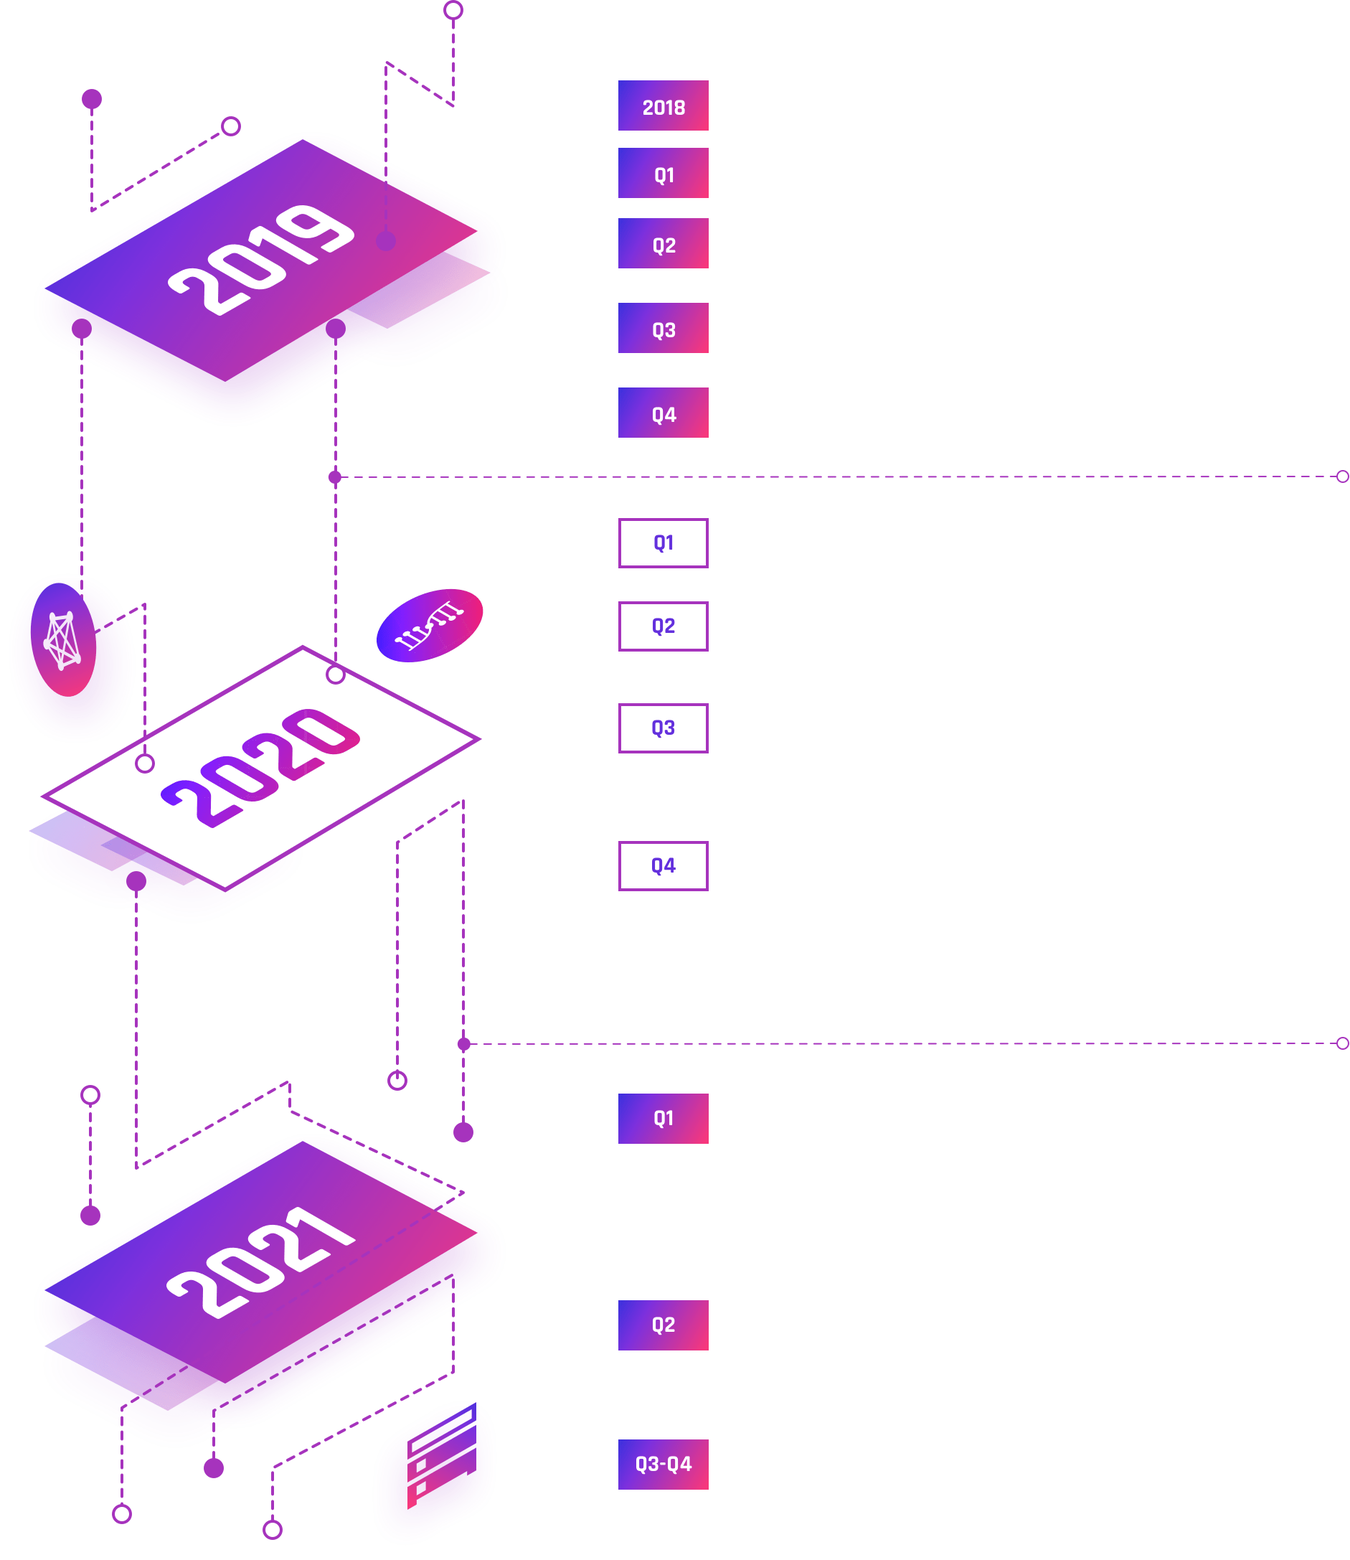
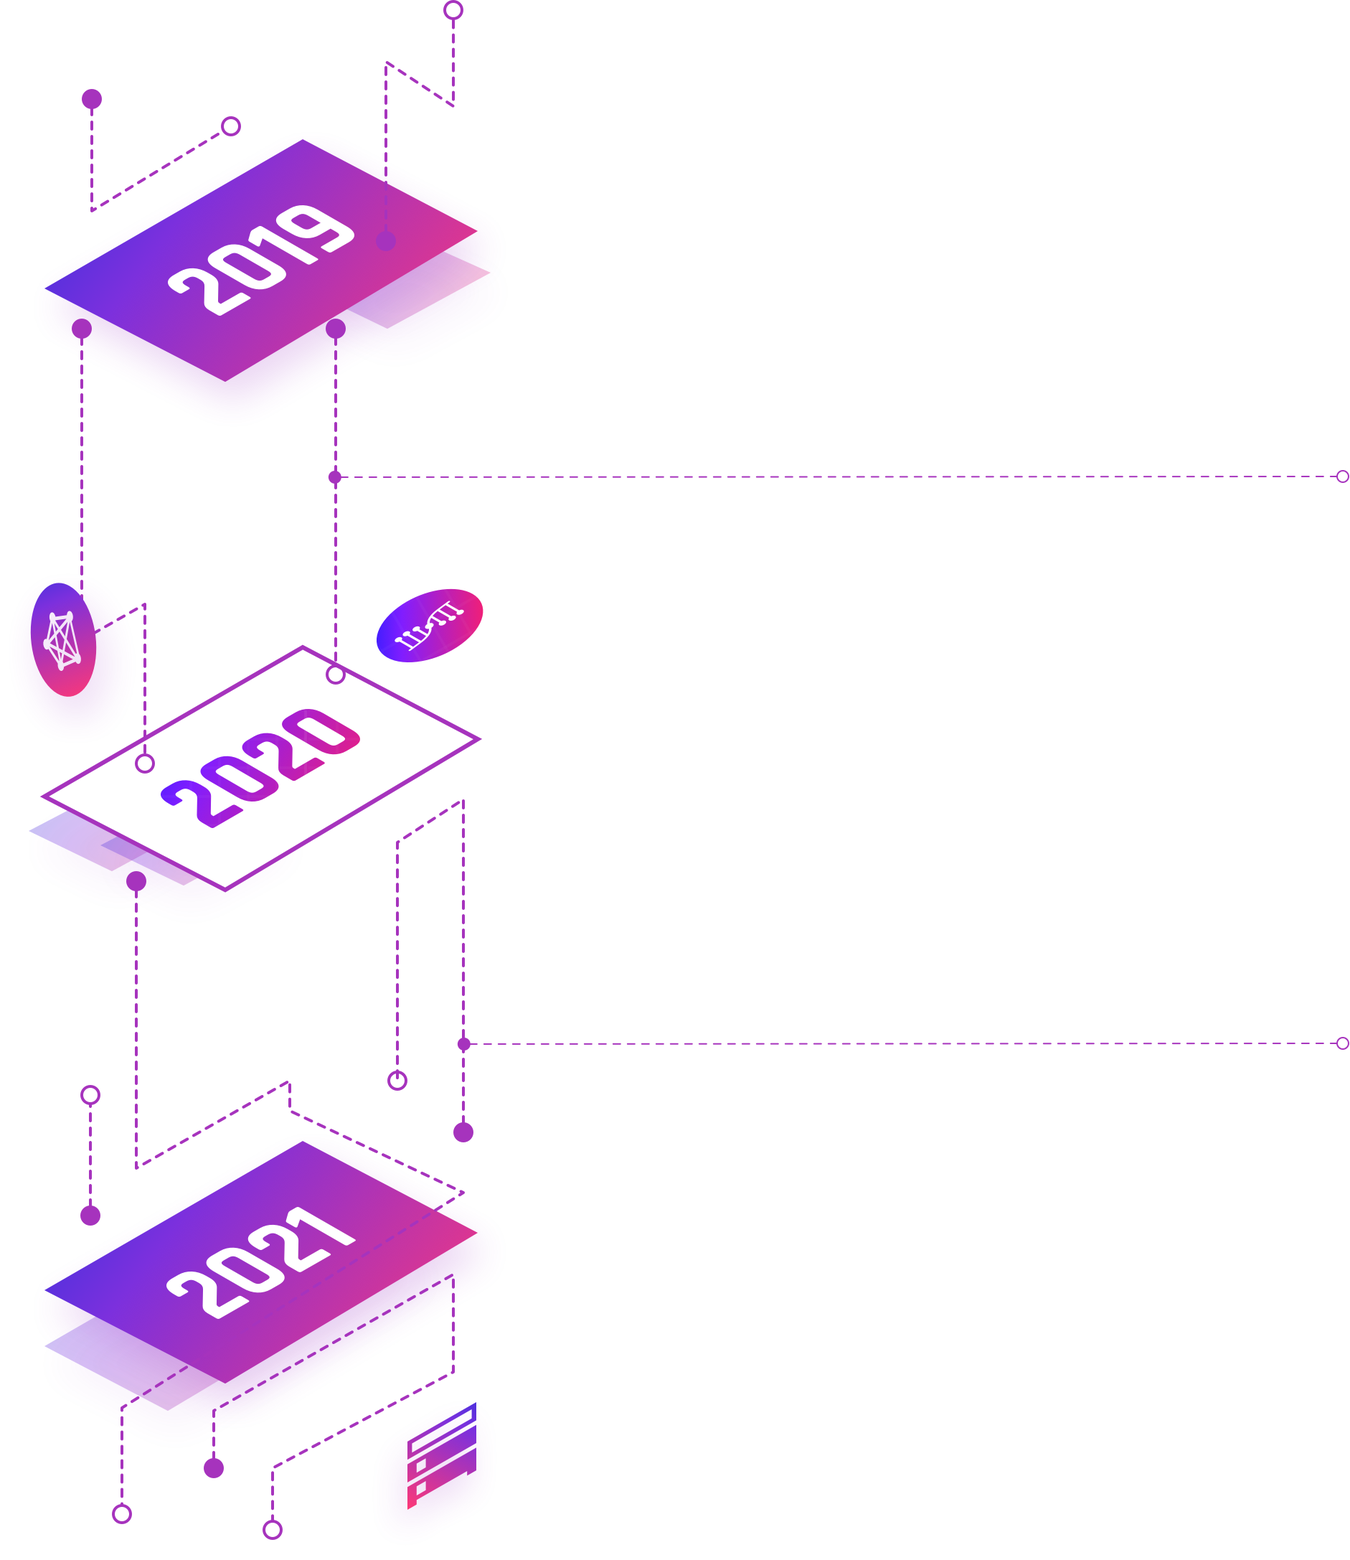
adjust roadmap

diff --git a/src/page/Home/index.js b/src/page/Home/index.js
@@ -704,80 +704,160 @@ class Home extends Component {
                                     <Row className={styles.roadmapImgRow}>
                                         <Col md={6} xs={0}></Col>
                                         <Col className={styles.roadmapTextCol}>
-                                            <div className={styles.roadmap2019}>
-                                                <p>
-                                                    {t('home_page:roadmap_2018')}
-                                                </p>
-                                                <p>
-                                                    {t('home_page:roadmap_2019_q1')}
-                                                </p>
-                                                <p>
-                                                    {t('home_page:roadmap_2019_q2')}
-                                                </p>
-                                                <p>
-                                                    {t('home_page:roadmap_2019_q3_1')}
-                                                    <br/>
-                                                    {t('home_page:roadmap_2019_q3_2')}
-                                                </p>
-                                                <p>
-                                                    {t('home_page:roadmap_2019_q4')}
-                                                </p>
-                                            </div>
-                                            <div className={styles.roadmap2020}>
-                                                <p>
-                                                    {t('home_page:roadmap_2020_q1')}
-                                                </p>
-                                                <p>
-                                                    {t('home_page:roadmap_2020_q2_1')}
-                                                    <br/>
-                                                    {t('home_page:roadmap_2020_q2_2')}
-                                                </p>
-                                                <p>
-                                                    {t('home_page:roadmap_2020_q3_1')}
-                                                    <br/>
-                                                    {t('home_page:roadmap_2020_q3_2')}
-                                                    <br/>
-                                                    {t('home_page:roadmap_2020_q3_3')}
-                                                </p>
-                                                <p className={styles.roadmap2020Q4}>
-                                                    {t('home_page:roadmap_2020_q4_1')}
-                                                    <br/>
-                                                    {t('home_page:roadmap_2020_q4_2')}
-                                                    <br/>
-                                                    {t('home_page:roadmap_2020_q4_3')}
-                                                    <br/>
-                                                    {t('home_page:roadmap_2020_q4_4')}
-                                                    <br/>
-                                                    {t('home_page:roadmap_2020_q4_5')}
-                                                </p>
-                                            </div>
-                                            <div className={styles.roadmap2021}>
-                                                <p>
-                                                    {t('home_page:roadmap_2021_q1_1')}
-                                                    <br/>
-                                                    {t('home_page:roadmap_2021_q1_2')}
-                                                    <br/>
-                                                    {t('home_page:roadmap_2021_q1_3')}
-                                                    <br/>
-                                                    <span className={styles.note}>{t('home_page:roadmap_2021_q1_4')}</span>
-                                                    <br/>
-                                                    {t('home_page:roadmap_2021_q1_5')}
-                                                </p>
-                                                <p>
-                                                    {t('home_page:roadmap_2021_q2_1')}
-                                                    <br/>
-                                                    {t('home_page:roadmap_2021_q2_2')}
-                                                    <br/>
-                                                    {t('home_page:roadmap_2021_q2_3')}
-                                                </p>
-                                                <p>
-                                                    {t('home_page:roadmap_2021_q3_1')}
-                                                    <br/>
-                                                    {t('home_page:roadmap_2021_q3_2')}
-                                                    <br/>
-                                                    {t('home_page:roadmap_2021_q3_3')}
-                                                </p>
-                                            </div>
+                                            <Row className={styles.roadmap2018}>
+                                                <Col xs={2}>
+                                                    <div className={`${styles.colorBtn}`}>2018</div>
+                                                </Col>
+                                                <Col xs={10} className={styles.middleTextCol}>
+                                                    <p>
+                                                        {t('home_page:roadmap_2018')}
+                                                    </p>
+                                                </Col>
+                                            </Row>
+                                            <Row className={styles.roadmap2019q1}>
+                                                <Col xs={2}>
+                                                    <div className={`${styles.colorBtn}`}>Q1</div>
+                                                </Col>
+                                                <Col xs={10} className={styles.middleTextCol}>
+                                                    <p>
+                                                        {t('home_page:roadmap_2019_q1')}
+                                                    </p>
+                                                </Col>
+                                            </Row>
+                                            <Row className={styles.roadmap2019q2}>
+                                                <Col xs={2}>
+                                                    <div className={`${styles.colorBtn}`}>Q2</div>
+                                                </Col>
+                                                <Col xs={10} className={styles.middleTextCol}>
+                                                    <p>
+                                                        {t('home_page:roadmap_2019_q2')}
+                                                    </p>
+                                                </Col>
+                                            </Row>
+                                            <Row className={styles.roadmap2019q3}>
+                                                <Col xs={2}>
+                                                    <div className={`${styles.colorBtn}`}>Q3</div>
+                                                </Col>
+                                                <Col xs={10} className={styles.middleTextCol}>
+                                                    <p>
+                                                        {t('home_page:roadmap_2019_q3_1')}
+                                                        <br/>
+                                                        {t('home_page:roadmap_2019_q3_2')}
+                                                    </p>
+                                                </Col>
+                                            </Row>
+                                            <Row className={styles.roadmap2019q4}>
+                                                <Col xs={2}>
+                                                    <div className={`${styles.colorBtn}`}>Q4</div>
+                                                </Col>
+                                                <Col xs={10} className={styles.middleTextCol}>
+                                                    <p>
+                                                        {t('home_page:roadmap_2019_q4')}
+                                                    </p>
+                                                </Col>
+                                            </Row>
+
+                                            <Row className={styles.roadmap2020q1}>
+                                                <Col xs={2}>
+                                                    <div className={`${styles.whiteBtn}`}>Q1</div>
+                                                </Col>
+                                                <Col xs={10} className={styles.middleTextCol}>
+                                                    <p>
+                                                        {t('home_page:roadmap_2020_q1')}
+                                                    </p>
+                                                </Col>
+                                            </Row>
+                                            <Row className={styles.roadmap2020q2}>
+                                                <Col xs={2}>
+                                                    <div className={`${styles.whiteBtn}`}>Q2</div>
+                                                </Col>
+                                                <Col xs={10} className={styles.middleTextCol}>
+                                                    <p>
+                                                        {t('home_page:roadmap_2020_q2_1')}
+                                                        <br/>
+                                                        {t('home_page:roadmap_2020_q2_2')}
+                                                    </p>
+                                                </Col>
+                                            </Row>
+                                            <Row className={styles.roadmap2020q3}>
+                                                <Col xs={2}>
+                                                    <div className={`${styles.whiteBtn}`}>Q3</div>
+                                                </Col>
+                                                <Col xs={10} className={styles.middleTextCol}>
+                                                    <p>
+                                                        {t('home_page:roadmap_2020_q3_1')}
+                                                        <br/>
+                                                        {t('home_page:roadmap_2020_q3_2')}
+                                                        <br/>
+                                                        {t('home_page:roadmap_2020_q3_3')}
+                                                    </p>
+                                                </Col>
+                                            </Row>
+                                            <Row className={styles.roadmap2020q4}>
+                                                <Col xs={2}>
+                                                    <div className={`${styles.whiteBtn}`}>Q4</div>
+                                                </Col>
+                                                <Col xs={10} className={styles.middleTextCol}>
+                                                    <p className={styles.roadmap2020Q4}>
+                                                        {t('home_page:roadmap_2020_q4_1')}
+                                                        <br/>
+                                                        {t('home_page:roadmap_2020_q4_2')}
+                                                        <br/>
+                                                        {t('home_page:roadmap_2020_q4_3')}
+                                                        <br/>
+                                                        {t('home_page:roadmap_2020_q4_4')}
+                                                        <br/>
+                                                        {t('home_page:roadmap_2020_q4_5')}
+                                                    </p>
+                                                </Col>
+                                            </Row>
+
+                                            <Row className={styles.roadmap2021q1}>
+                                                <Col xs={2}>
+                                                    <div className={`${styles.colorBtn}`}>Q1</div>
+                                                </Col>
+                                                <Col xs={10} className={styles.middleTextCol}>
+                                                    <p>
+                                                        {t('home_page:roadmap_2021_q1_1')}
+                                                        <br/>
+                                                        {t('home_page:roadmap_2021_q1_2')}
+                                                        <br/>
+                                                        {t('home_page:roadmap_2021_q1_3')}
+                                                        <br/>
+                                                        <span className={styles.note}>{t('home_page:roadmap_2021_q1_4')}</span>
+                                                        <br/>
+                                                        {t('home_page:roadmap_2021_q1_5')}
+                                                    </p>
+                                                </Col>
+                                            </Row>
+                                            <Row className={styles.roadmap2021q2}>
+                                                <Col xs={2}>
+                                                    <div className={`${styles.colorBtn}`}>Q2</div>
+                                                </Col>
+                                                <Col xs={10} className={styles.middleTextCol}>
+                                                    <p>
+                                                        {t('home_page:roadmap_2021_q2_1')}
+                                                        <br/>
+                                                        {t('home_page:roadmap_2021_q2_2')}
+                                                        <br/>
+                                                        {t('home_page:roadmap_2021_q2_3')}
+                                                    </p>
+                                                </Col>
+                                            </Row>
+                                            <Row className={styles.roadmap2021q3}>
+                                                <Col xs={2}>
+                                                    <div className={`${styles.colorBtn}`}>Q3-Q4</div>
+                                                </Col>
+                                                <Col xs={10} className={styles.middleTextCol}>
+                                                    <p>
+                                                        {t('home_page:roadmap_2021_q3_1')}
+                                                        <br/>
+                                                        {t('home_page:roadmap_2021_q3_2')}
+                                                        <br/>
+                                                        {t('home_page:roadmap_2021_q3_3')}
+                                                    </p>
+                                                </Col>
+                                            </Row>
                                         </Col>
                                     </Row>
                                 </Col>
@@ -925,16 +1005,6 @@ class Home extends Component {
                                 </Col>
                                 <Col xs={9} className={styles.middleTextCol}>
                                     <p>
-                                        {t('home_page:roadmap_2020_q1')}
-                                    </p>
-                                </Col>
-                            </Row>
-                            <Row className={styles.roadmap2021q2}>
-                                <Col xs={3}>
-                                    <div className={`${styles.colorBtn}`}>Q2</div>
-                                </Col>
-                                <Col xs={9} className={styles.middleTextCol}>
-                                    <p>
                                         {t('home_page:roadmap_2021_q1_1')}
                                         <br/>
                                         {t('home_page:roadmap_2021_q1_2')}
@@ -944,6 +1014,20 @@ class Home extends Component {
                                         <span className={styles.note}>{t('home_page:roadmap_2021_q1_4')}</span>
                                         <br/>
                                         {t('home_page:roadmap_2021_q1_5')}
+                                    </p>
+                                </Col>
+                            </Row>
+                            <Row className={styles.roadmap2021q2}>
+                                <Col xs={3}>
+                                    <div className={`${styles.colorBtn}`}>Q2</div>
+                                </Col>
+                                <Col xs={9} className={styles.middleTextCol}>
+                                    <p>
+                                        {t('home_page:roadmap_2021_q2_1')}
+                                        <br/>
+                                        {t('home_page:roadmap_2021_q2_2')}
+                                        <br/>
+                                        {t('home_page:roadmap_2021_q2_3')}
                                     </p>
                                 </Col>
                             </Row>

diff --git a/src/page/Home/style.module.scss b/src/page/Home/style.module.scss
@@ -665,9 +665,6 @@
   img {
     width: 100%;
   }
-  .roadmap {
-    padding: 0 15px;
-  }
   .roadmapRow {
     background: #FBFBFB;
     height: 1213px;
@@ -700,6 +697,78 @@
       font-size: 12px;
     }
   }
+
+  .roadmap {
+    height: initial;
+    background-color: initial;
+    padding: 0 15px;
+    h6 {
+      font-weight: 600;
+    }
+    p {
+      margin-bottom: 0;
+      line-height: 24px;
+      font-size: 16px;
+      margin-top: -4px;
+    }
+    .middleTextCol {
+      display: flex;
+      align-items: center;
+    }
+    .roadmap2018 {
+      margin-bottom: 12px;
+    }
+    .roadmap2019q1 {
+      margin-bottom: 12px;
+    }
+    .roadmap2019q2 {
+      margin-bottom: 20px;
+    }
+    .roadmap2019q3 {
+      margin-bottom: 20px;
+    }
+    .roadmap2019q4 {
+      margin-bottom: 44px;
+    }
+    .roadmap2020q1 {
+      margin-bottom: 20px;
+    }
+    .roadmap2020q2 {
+      margin-bottom: 30px;
+    }
+    .roadmap2020q3 {
+      margin-bottom: 30px;
+    }
+    .roadmap2020q4 {
+      margin-bottom: 44px;
+    }
+    .roadmap2021q1 {
+      margin-bottom: 10px;
+    }
+    .roadmap2021q2 {
+      margin-bottom: 20px;
+    }
+    .transBtn {
+      width: 63px;
+      text-align: center;
+    }
+    .colorBtn, .whiteBtn {
+      width: 63px;
+      height: 35px;
+      display: flex;
+      justify-content: center;
+      align-items: center;
+      font-weight: 600;
+    }
+    .colorBtn {
+      color: #fff;
+      background: linear-gradient(315deg, #FE3876 0%, #7C30DD 71%, #3A30DD 100%);
+    }
+    .whiteBtn {
+      color: #6330DD;
+      border: 2px solid #A633BD;
+    }
+  }
   .roadmapImgCol {
     margin: 70px 105px 80px 85px;
   }
@@ -711,7 +780,7 @@
   }
   .roadmapTextCol {
     margin-top: 54px;
-    margin-left: 20px;
+    // margin-left: 20px;
   }
 }
 

diff --git a/src/page/Community/index.js b/src/page/Community/index.js
@@ -399,7 +399,7 @@ class Brand extends Component {
                                         <img className={`${styles.avatar}`} alt="person" src={person_15}/>
                                         <img className={`${styles.avatar}`} alt="person" src={person_16}/>
                                         <img className={`${styles.avatar}`} alt="person" src={person_17}/>
-                                        </>) : <img className={`${styles.avatar}`} alt="person" className={`${styles.personMore}`} src={person_more} onClick={() => this.showMoreAvatar()}/>}
+                                        </>) : <img alt="person" className={`${styles.personMore}`} src={person_more} onClick={() => this.showMoreAvatar()}/>}
                                     </div>
                                 </MediaQuery>
                                 <p>
